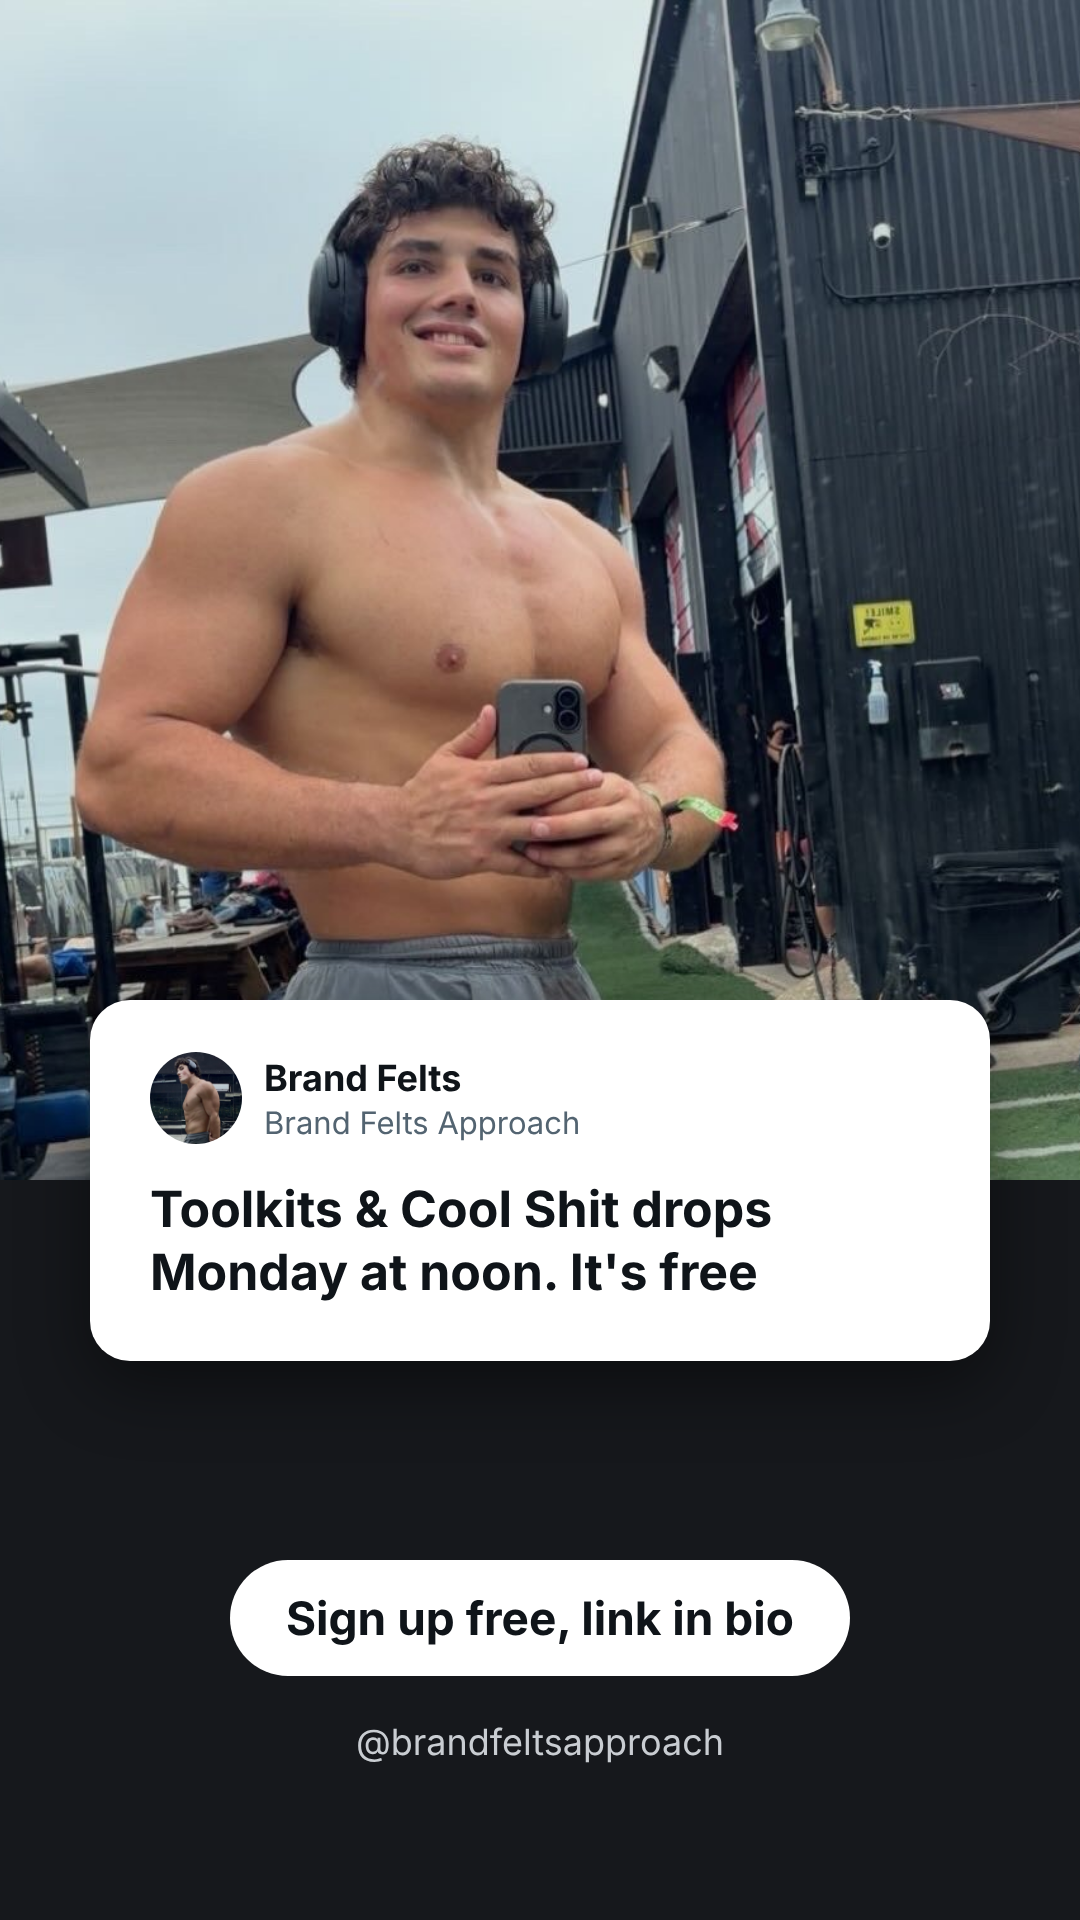
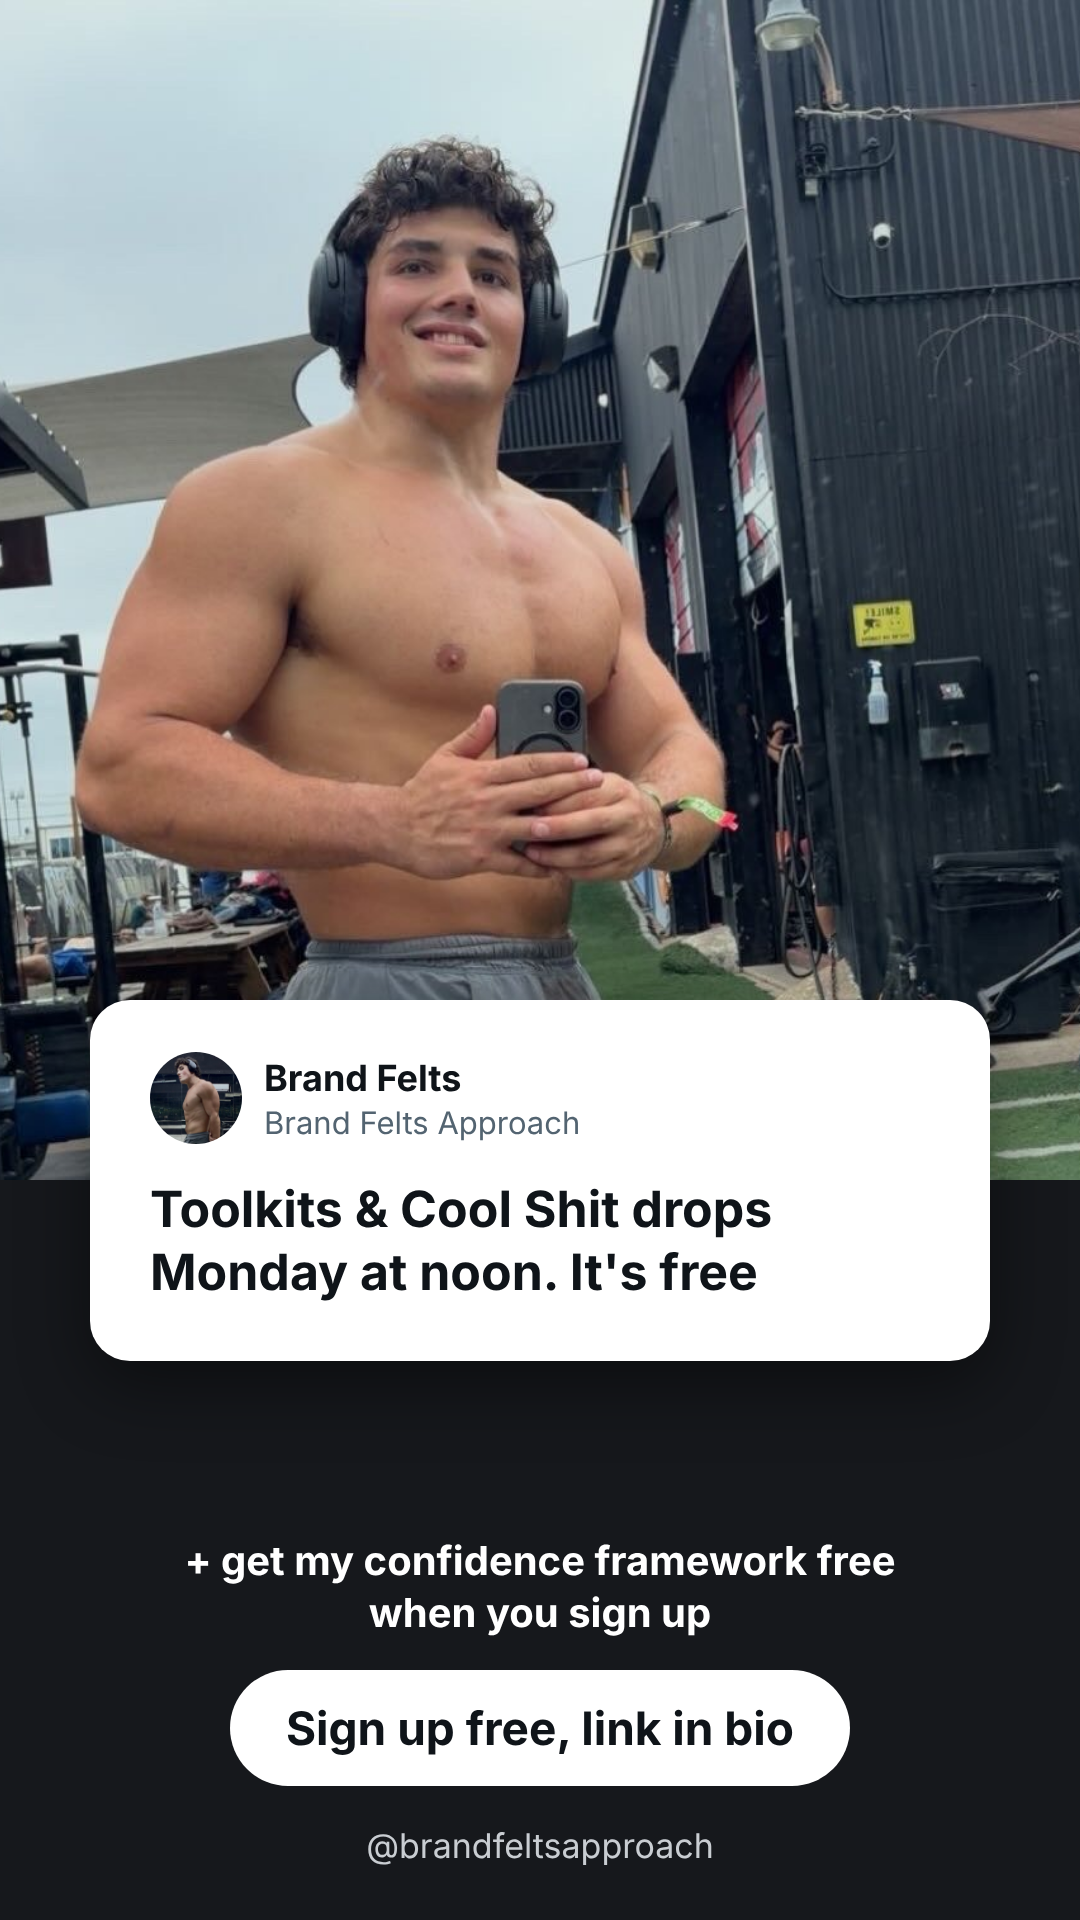
Stories: add confidence framework freebie

Changed region(s): [[0.1833, 0.7812, 0.825, 0.9688]]

diff --git a/tools/make_stories.py b/tools/make_stories.py
@@ -29,8 +29,9 @@ def page(text, photo, pos):
 <div style="display:flex;flex-direction:column;gap:4px"><div style="font-size:36px;font-weight:700">Brand Felts</div><div style="font-size:31px;color:#536471">Brand Felts Approach</div></div></div>
 <p style="margin:34px 0 0 0;font-size:50px;line-height:1.25;font-weight:700">{t}</p>
 </div>
-<div style="position:absolute;left:0;right:0;top:1560px;display:flex;justify-content:center"><div style="background:#FFFFFF;color:#0F1419;border-radius:999px;padding:30px 56px;font-size:46px;font-weight:700">Sign up free, link in bio</div></div>
-<div style="position:absolute;left:0;right:0;top:1720px;text-align:center;color:#C9CDD2;font-size:36px">@brandfeltsapproach</div>
+<div style="position:absolute;left:0;right:0;top:1535px;text-align:center;color:#FFFFFF;font-size:40px;font-weight:700;line-height:1.3">+ get my confidence framework free<br>when you sign up</div>
+<div style="position:absolute;left:0;right:0;top:1670px;display:flex;justify-content:center"><div style="background:#FFFFFF;color:#0F1419;border-radius:999px;padding:30px 56px;font-size:46px;font-weight:700">Sign up free, link in bio</div></div>
+<div style="position:absolute;left:0;right:0;top:1825px;text-align:center;color:#C9CDD2;font-size:34px">@brandfeltsapproach</div>
 </div></body></html>"""
 
 out = ROOT / "stories"; out.mkdir(exist_ok=True)
